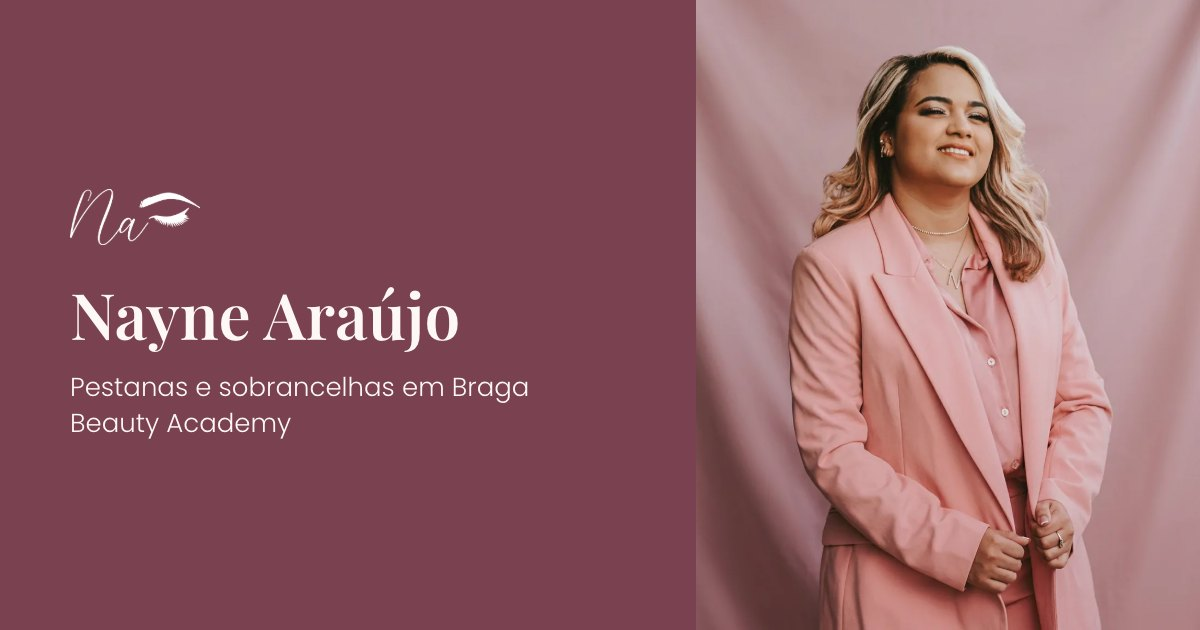
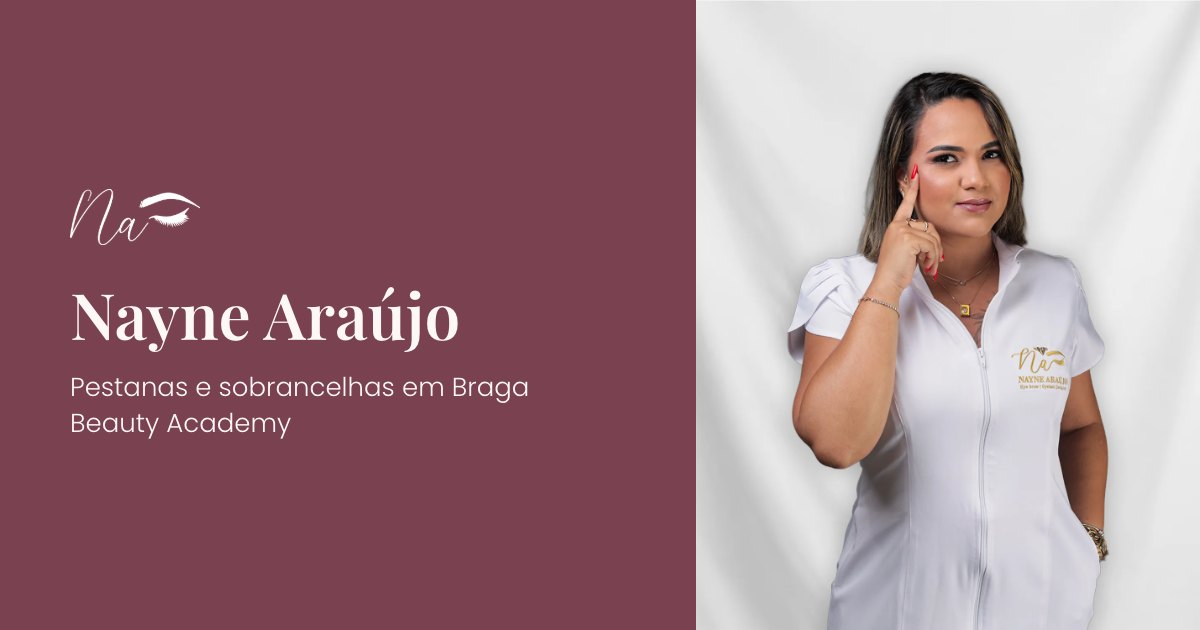
Nova foto da Nayne no hero e na imagem de partilha

diff --git a/index.html b/index.html
@@ -232,7 +232,7 @@
     <div class="hero__col hero__col--media">
       <figure class="hero__figure" data-hero="7">
         <div class="hero__frame">
-          <img src="assets/img/nayne-rosa.webp" alt="Nayne Araújo, de fato rosa, a sorrir" data-parallax="0.12" />
+          <img src="assets/img/nayne-branco.webp" alt="Nayne Araújo, de bata branca com o logótipo bordado, a apontar para o olho" data-parallax="0.12" />
         </div>
         <span class="hero__ring" aria-hidden="true"></span>
         <span class="hero__tag">
